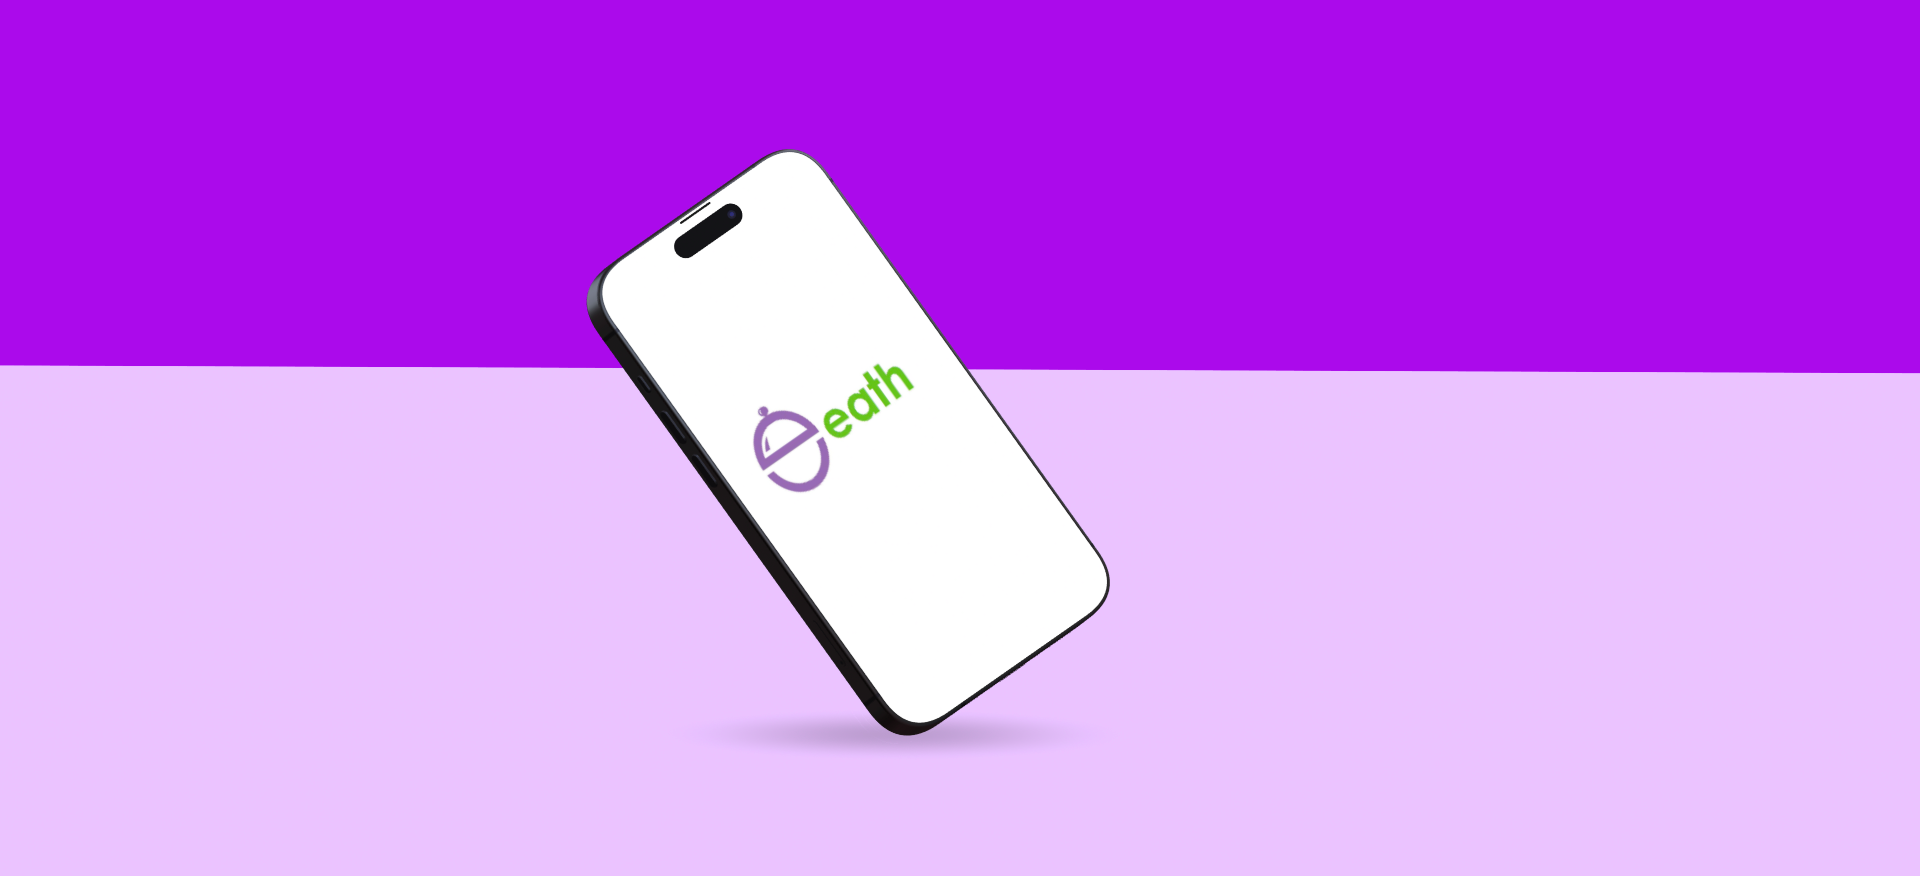
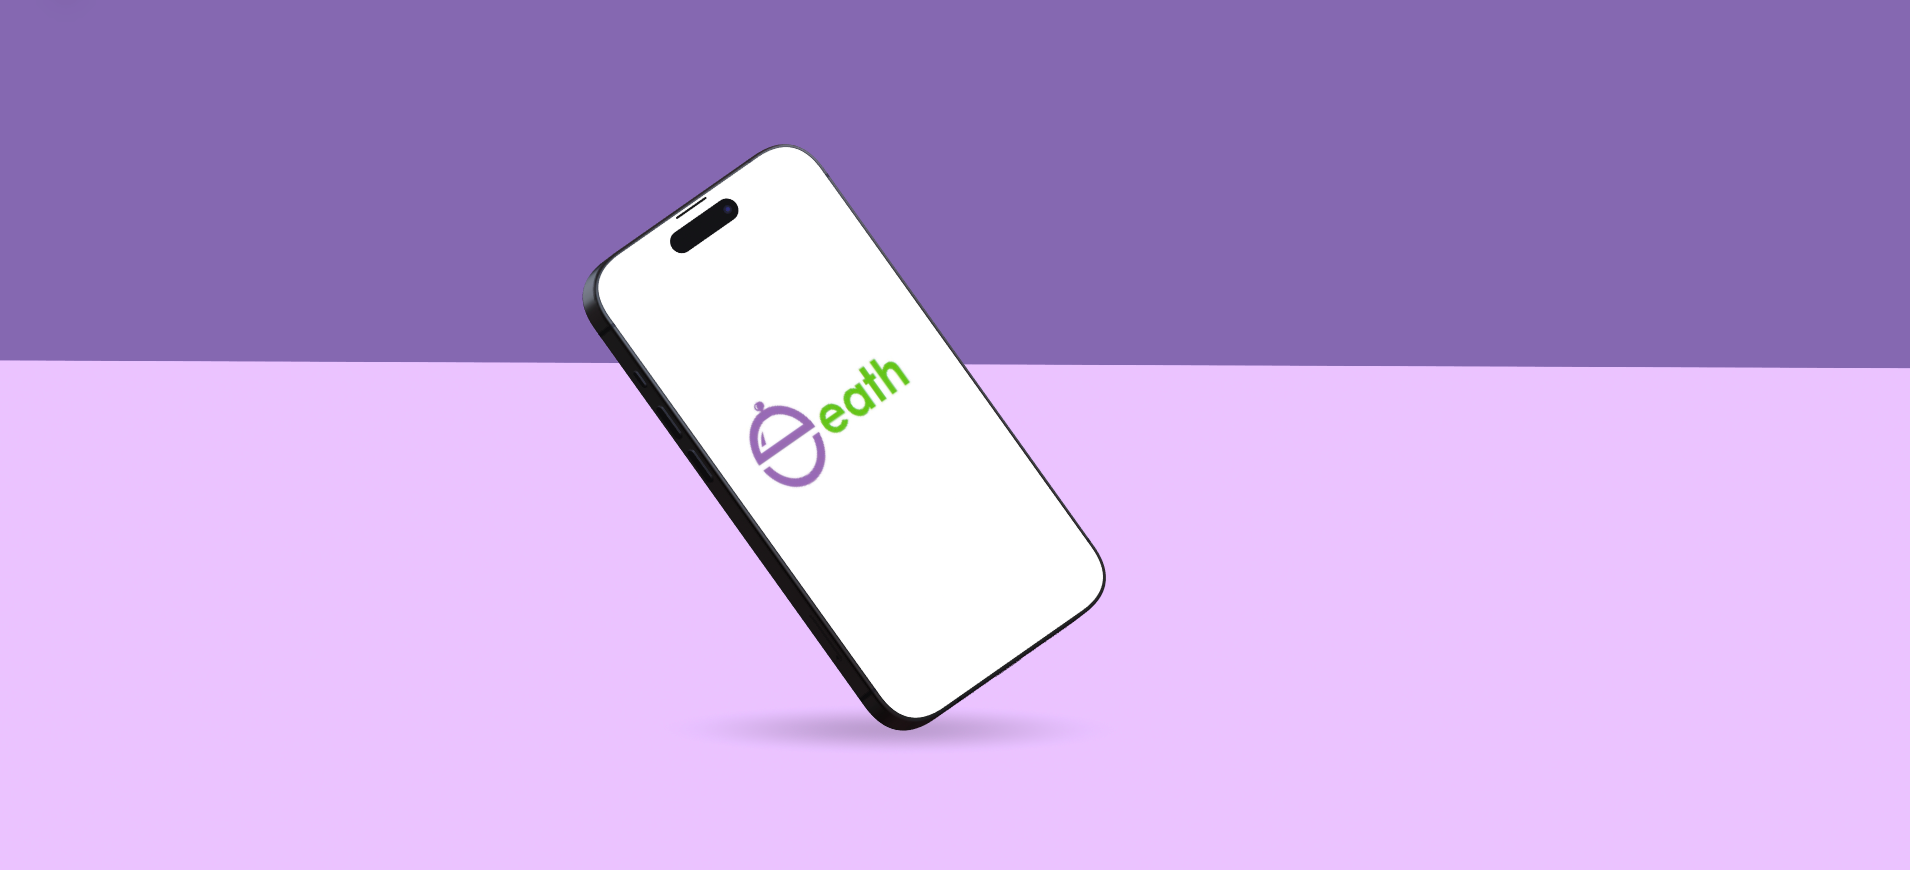
#10 eath

diff --git a/app/page.tsx b/app/page.tsx
@@ -82,7 +82,12 @@ export default function IndexPage() {
   const authentification = "/Authentification.mp4"
   const eathdark = "/Eath-dark.mp4"
   const authentificationdark = "/Authentification-dark.mp4"
-
+const accueildarkimage= "/accueil-dark.png"
+  const  accueilimage = "/accueil.png"
+  const authentificationimage = "/authentification.png"
+  const eathimage = "/eath.png"
+  const authentificationdarkimage = "/authentificationdark.png"
+  const eathdarkimage = "/eathdark.png"
   return (
     // <div className="container relative overflow-hidden">
     <section id="hero">
@@ -118,7 +123,7 @@ export default function IndexPage() {
 
         <div className="relative  rounded-xl lg:block">
           <video
-            className="w-full h-auto hidden max-w-[1200px] border-8 border-muted rounded-[inherit]  object-contain shadow-lg dark:block"
+            className="w-full h-auto hidden  max-w-[1200px] border-8 border-muted rounded-[inherit]  object-contain shadow-lg dark:md:block"
             autoPlay
             muted
             disablePictureInPicture
@@ -130,8 +135,10 @@ export default function IndexPage() {
             <source src={accueildark} type="video/mp4"/>
             Your browser does not support the video tag.
           </video>
+          <img src={accueildarkimage}
+               className={"w-full h-auto dark:block hidden dark:md:hidden  max-w-[1200px] border-8 border-muted rounded-[inherit]  object-contain shadow-lg "}/>
           <video
-            className="w-full h-auto block max-w-[1200px] border-8 border-muted rounded-[inherit]  object-contain shadow-lg dark:hidden"
+            className="w-full h-auto  hidden md:block max-w-[1200px] border-8 border-muted rounded-[inherit]  object-contain shadow-lg dark:hidden"
             autoPlay
             muted
             disablePictureInPicture
@@ -143,7 +150,8 @@ export default function IndexPage() {
             <source src={accueil} type="video/mp4"/>
             Your browser does not support the video tag.
           </video>
-
+          <img src={accueilimage}
+               className={"w-full h-auto block md:hidden dark:hidden  max-w-[1200px] border-8 border-muted rounded-[inherit]  object-contain shadow-lg "}/>
           <BorderBeamm size={250} duration={12} delay={9}/>
           {/* <Features /> */}
         </div>
@@ -256,31 +264,37 @@ export default function IndexPage() {
       <div className={`px-7 mb-8 flex flex-col  items-center justify-center`}>
         <div className="relative  rounded-xl lg:block">
           <video
-            className="w-full h-auto block   max-w-[1200px] border-8 border-muted rounded-[inherit] dark:hidden object-contain shadow-lg"
+            className="w-full h-auto hidden  max-w-[1200px] border-8 border-muted rounded-[inherit]  object-contain shadow-lg dark:md:block"
             autoPlay
             muted
-            loop
             disablePictureInPicture
+            loop
             controls={false}
             style={{pointerEvents: 'none'}}
-          >
-            <source src={authentification} type="video/mp4"/>
-            Your browser does not support the video tag.
-          </video>
-          <video
-            className="w-full h-auto hidden  max-w-[1200px] border-8 border-muted rounded-[inherit]  object-contain dark:block shadow-lg"
-            autoPlay
-            muted
-            loop
-            disablePictureInPicture
-            controls={false}
-            style={{pointerEvents: 'none'}}
+
           >
             <source src={authentificationdark} type="video/mp4"/>
             Your browser does not support the video tag.
           </video>
-          <BorderBeamm size={250} duration={12} delay={9}/>
+          <img src={authentificationdarkimage}
+               className={"w-full h-auto dark:block hidden dark:md:hidden  max-w-[1200px] border-8 border-muted rounded-[inherit]  object-contain shadow-lg "}/>
+          <video
+            className="w-full h-auto  hidden md:block max-w-[1200px] border-8 border-muted rounded-[inherit]  object-contain shadow-lg dark:hidden"
+            autoPlay
+            muted
+            disablePictureInPicture
+            loop
+            controls={false}
+            style={{pointerEvents: 'none'}}
 
+          >
+            <source src={authentification} type="video/mp4"/>
+            Your browser does not support the video tag.
+          </video>
+          <img src={authentificationimage}
+               className={"w-full h-auto block md:hidden dark:hidden  max-w-[1200px] border-8 border-muted rounded-[inherit]  object-contain shadow-lg "}/>
+          <BorderBeamm size={250} duration={12} delay={9}/>
+          {/* <Features /> */}
         </div>
 
         <h2 className="font-heading text-3xl text-center mb-3  mt-8 leading-[1.1] sm:text-3xl md:text-3xl font-bold">
@@ -289,31 +303,37 @@ export default function IndexPage() {
         </h2>
         <div className="relative  rounded-xl lg:block">
           <video
-            className="w-full h-auto block   max-w-[1200px] border-8 border-muted rounded-[inherit] dark:hidden object-contain shadow-lg"
+            className="w-full h-auto hidden  max-w-[1200px] border-8 border-muted rounded-[inherit]  object-contain shadow-lg dark:md:block"
             autoPlay
             muted
-            loop
             disablePictureInPicture
+            loop
             controls={false}
             style={{pointerEvents: 'none'}}
-          >
-            <source src={eath} type="video/mp4"/>
-            Your browser does not support the video tag.
-          </video>
-          <video
-            className="w-full h-auto hidden  max-w-[1200px] border-8 border-muted rounded-[inherit]  object-contain dark:block shadow-lg"
-            autoPlay
-            muted
-            loop
-            disablePictureInPicture
-            controls={false}
-            style={{pointerEvents: 'none'}}
+
           >
             <source src={eathdark} type="video/mp4"/>
             Your browser does not support the video tag.
           </video>
-          <BorderBeamm size={250} duration={12} delay={9}/>
+          <img src={eathdarkimage}
+               className={"w-full h-auto dark:block hidden dark:md:hidden  max-w-[1200px] border-8 border-muted rounded-[inherit]  object-contain shadow-lg "}/>
+          <video
+            className="w-full h-auto  hidden md:block max-w-[1200px] border-8 border-muted rounded-[inherit]  object-contain shadow-lg dark:hidden"
+            autoPlay
+            muted
+            disablePictureInPicture
+            loop
+            controls={false}
+            style={{pointerEvents: 'none'}}
 
+          >
+            <source src={eath} type="video/mp4"/>
+            Your browser does not support the video tag.
+          </video>
+          <img src={eathimage}
+               className={"w-full h-auto block md:hidden dark:hidden  max-w-[1200px] border-8 border-muted rounded-[inherit]  object-contain shadow-lg "}/>
+          <BorderBeamm size={250} duration={12} delay={9}/>
+          {/* <Features /> */}
         </div>
       </div>
       <MarqueeDemo/>

diff --git a/styles/globals.css b/styles/globals.css
@@ -17,7 +17,8 @@
     --input: 253 6% 89%;
     --primary: 92.34 51.2% 50.98%;
     --primary-foreground: 0 0% 100%;
-    --secondary: 282.93 91.84% 48.04%;
+    --secondary:264, 32%, 55%;
+    /*--secondary: 282.93 91.84% 48.04%;*/
     --secondary-foreground: 0 0% 100%;
     --accent: 92.34 51.2% 50.98%;
     --accent-foreground: 0 0% 100%;
@@ -40,7 +41,8 @@
     --input: 253 6% 10%;
     --primary: 92.34 51.2% 50.98%;
     --primary-foreground: 0 0% 100%;
-    --secondary: 282.93 91.84% 48.04%;
+    --secondary:264, 32%, 55%;
+    /*--secondary: 282.93 91.84% 48.04%;*/
     --secondary-foreground: 0 0% 100%;
     --accent: 92.34 51.2% 50.98%;
     --accent-foreground: 0 0% 100%;

diff --git a/components/Service.tsx b/components/Service.tsx
@@ -80,7 +80,7 @@ function ShapeOne() {
         height="140"
         rx="73.8464"
         transform="rotate(-33.796 -315 502.403)"
-        fill="#C014F5"
+        fill="#916CAF "
 
       />
     </svg>
@@ -97,7 +97,7 @@ function ShapeTwo() {
       fill="none"
       xmlns="http://www.w3.org/2000/svg"
     >
-      <circle cx="489" cy="389" r="389" fill="#C014F5"  />
+      <circle cx="489" cy="389" r="389" fill="#916CAF "  />
     </svg>
   );
 }
